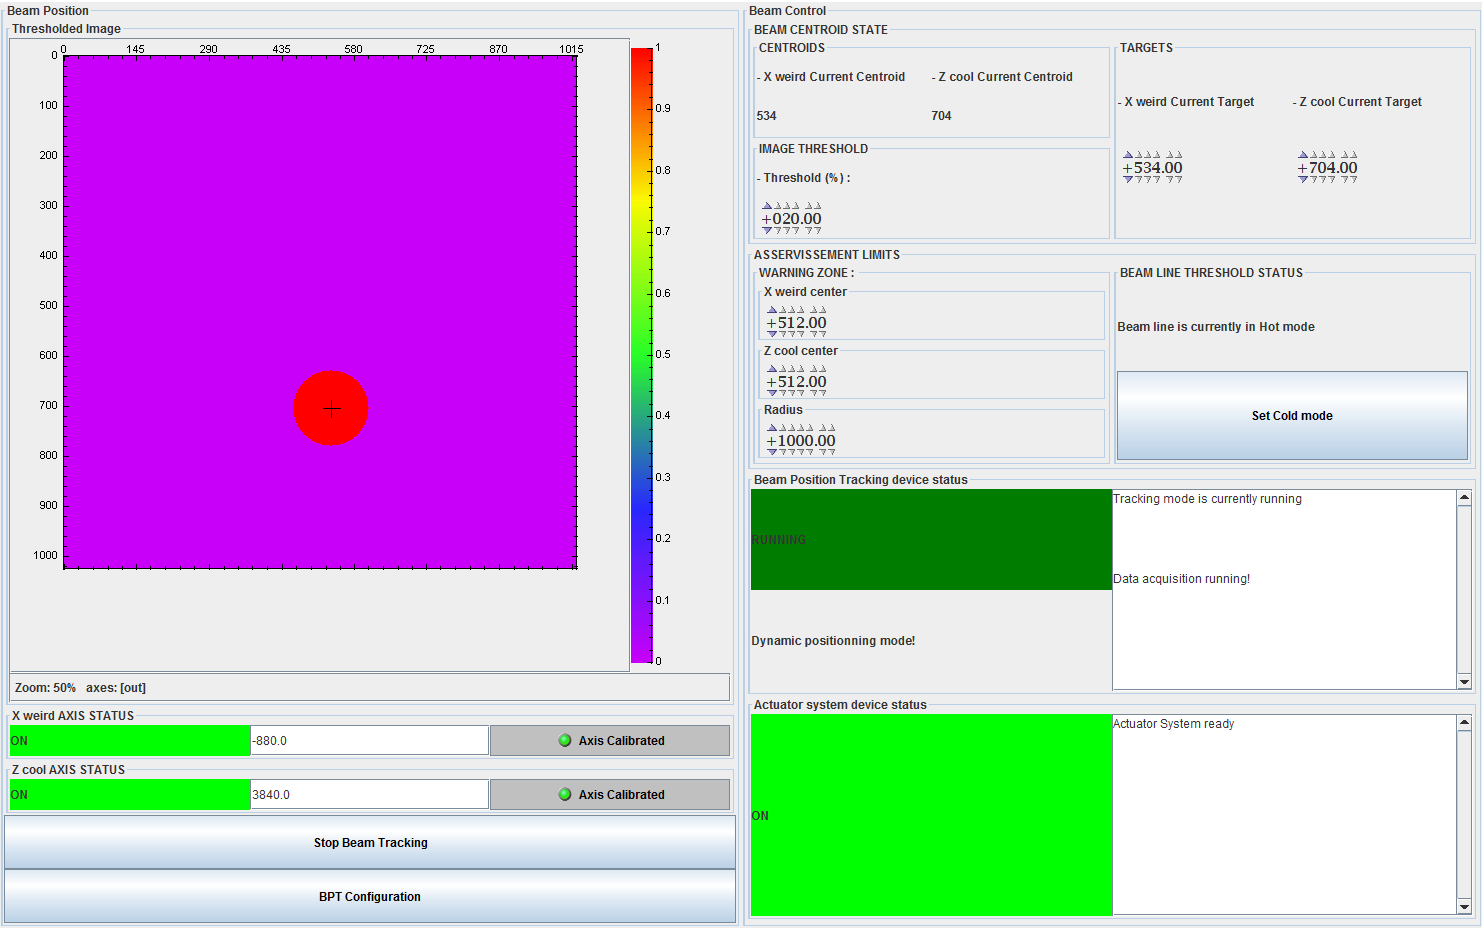
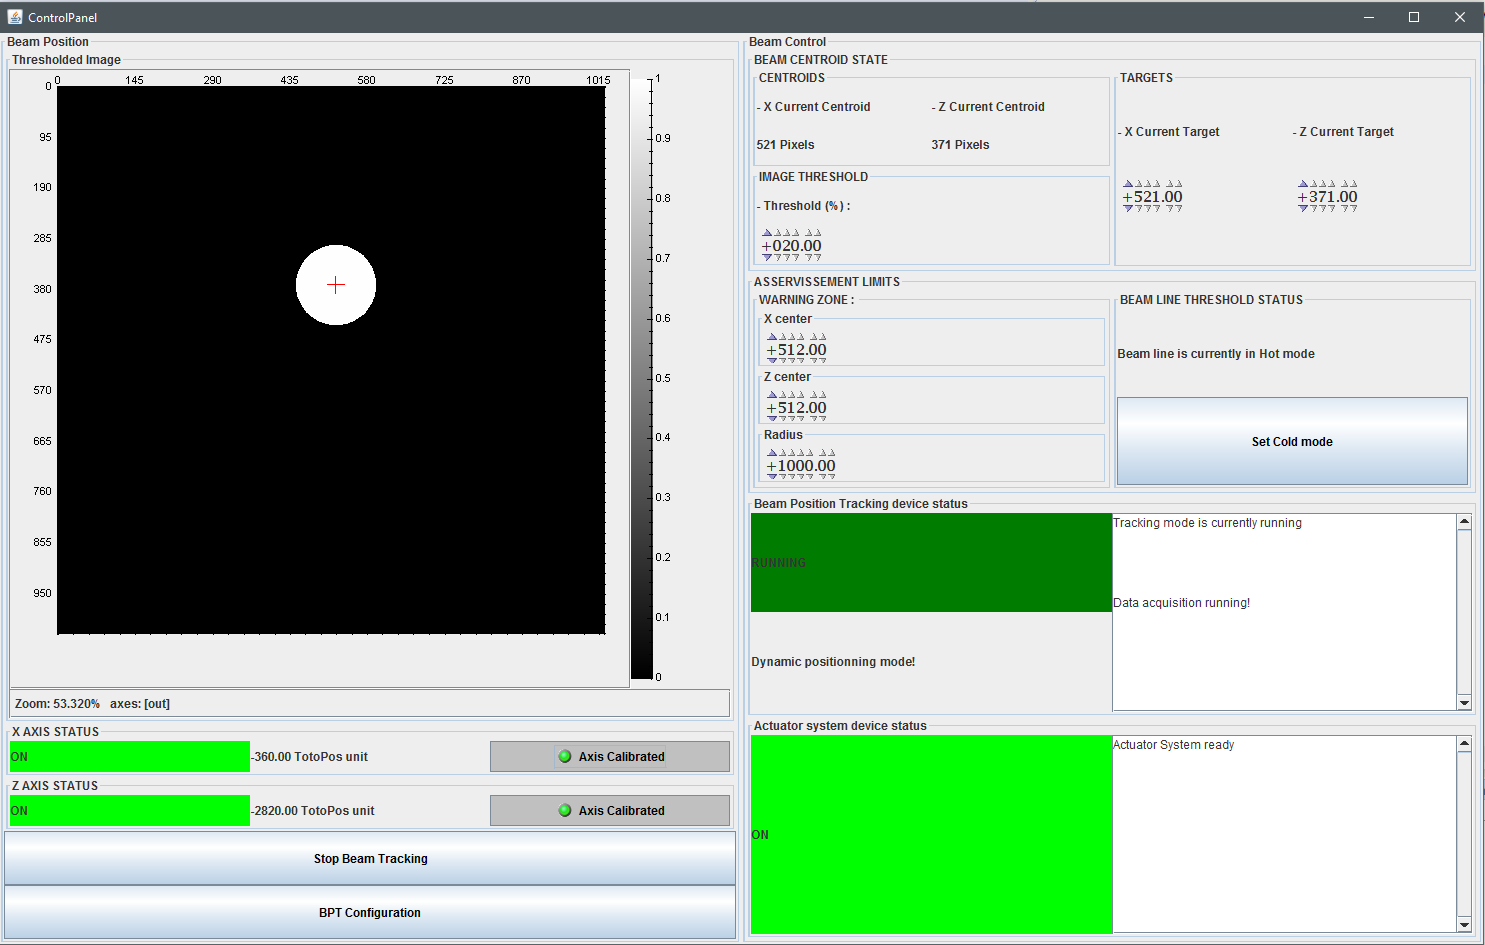
IHM ... work in progress

diff --git a/CometeApp/src/main/java/fr/soleil/comete/bptApp/view/ControlPanel.java b/CometeApp/src/main/java/fr/soleil/comete/bptApp/view/ControlPanel.java
@@ -1,8 +1,11 @@
-package main.java.fr.soleil.comete.bptApp.view;
+package fr.soleil.comete.bptApp.view;
 import java.awt.BorderLayout;
 import java.awt.Color;
 import java.awt.Dimension;
 import java.awt.GridLayout;
+import java.awt.event.ActionEvent;
+import java.awt.event.ActionListener;
+import java.util.concurrent.TimeUnit;
 
 import javax.swing.BorderFactory;
 import javax.swing.JFrame;
@@ -11,20 +14,13 @@ import javax.swing.JPanel;
 import javax.swing.WindowConstants;
 import javax.swing.border.Border;
 
-import main.java.fr.soleil.comete.bptApp.cometeWrapper.TangoConnection;
-
-import java.awt.event.ActionEvent;
-import java.awt.event.ActionListener;
-import java.util.concurrent.TimeUnit;
-
-import fr.soleil.comete.awt.Button;
-import fr.soleil.comete.definition.widget.util.CometeColor;
+import fr.soleil.comete.bptApp.cometeWrapper.TangoConnection;
+import fr.soleil.comete.definition.widget.util.Gradient;
 import fr.soleil.comete.swing.IconButton;
 import fr.soleil.comete.swing.ImageViewer;
 import fr.soleil.comete.swing.Label;
 import fr.soleil.comete.swing.StringButton;
 import fr.soleil.comete.swing.TextArea;
-import fr.soleil.comete.swing.TextField;
 import fr.soleil.comete.swing.WheelSwitch;
 
 /****************************************************************
@@ -80,10 +76,10 @@ public class ControlPanel implements Runnable  {
 	StringButton _stopBTButtonCMD;
 	StringButton _trackingButton;
 	Label _xAxisState;
-	TextField _xAxisPosition;
+	Label _xAxisPosition;
 	IconButton _isXAxisCalibrated;
 	Label _yAxisState;
-	TextField _yAxisPosition;
+	Label _yAxisPosition;
 	IconButton _isYAxisCalibrated;
 	
 	//COMPONENTS - RIGHT PANEL
@@ -206,8 +202,6 @@ public class ControlPanel implements Runnable  {
 	 *  To refresh interface 
 	 * **************************************************************/
 	private void refreshInterface(){
-		refreshImageSize();
-		refreshStatesColors();
 		refreshBPTState();
 		refreshApplicationCommands();
 		refreshThresholdMode();
@@ -246,32 +240,6 @@ public class ControlPanel implements Runnable  {
 			_switchBeamLineThresholdMode.setText("Set Cold mode");
 			_hotBeamLineMode = false;
 			_coldBeamLineMode = false;
-		}
-	}
-	/****************************************************************
-	 *  refreshImageSize ()
-	 *  
-	 *  Will refresh image size only if mainFrame dimensions has changed
-	 * **************************************************************/
-	public void refreshImageSize(){
-		int newXFrameDim = _mainFrame.getSize().width;
-		int newYFrameDim = _mainFrame.getSize().height;
-		
-		if(!_firstImageSizeFit){
-			//first refresh => need to wait for the viewer to be fully construct (1 second)
-			try {
-				TimeUnit.SECONDS.sleep(1);
-			} catch (InterruptedException e) {
-				//Noop
-			}
-		}
-
-		if (newXFrameDim!=_xOldFrameDim || newYFrameDim!=_yOldFrameDim){
-			_firstImageSizeFit = true;
-			_xOldFrameDim = newXFrameDim;
-			_yOldFrameDim = newYFrameDim;
-			//Update image size
-			_viewer.setAutoZoom(true);
 		}
 	}
 	/****************************************************************
@@ -318,7 +286,6 @@ public class ControlPanel implements Runnable  {
 		double []point = {_xTarget.getValue(), _yTarget.getValue()};
 		_viewer.setBeamPoint(point);
 		_viewer.getBeamPoint();
-		_viewer.setBeamColor(Color.black);
 		_viewer.setDrawBeamPosition(true);
 	}
 	/****************************************************************
@@ -380,29 +347,6 @@ public class ControlPanel implements Runnable  {
 		}
 	}
 	/****************************************************************
-	 *  refreshStatesColors ()
-	 *  
-	 *  
-	 * **************************************************************/
-	public void refreshStatesColors(){
-		String xState = _xAxisState.getText();
-		String yState = _yAxisState.getText();
-		
-		if (xState.equals("ON"))
-			_xAxisState.setCometeBackground(CometeColor.GREEN);
-		else if (xState.equals("MOVING"))
-			_xAxisState.setCometeBackground(CometeColor.CYAN);
-		else 
-			_xAxisState.setCometeBackground(CometeColor.ORANGE);
-		
-		if (yState.equals("ON"))
-			_yAxisState.setCometeBackground(CometeColor.GREEN);
-		else if (yState.equals("MOVING"))
-			_yAxisState.setCometeBackground(CometeColor.CYAN);
-		else 
-			_yAxisState.setCometeBackground(CometeColor.ORANGE);
-	}
-	/****************************************************************
 	 *  initComponents() 
 	 *  
 	 *  To init components
@@ -418,6 +362,12 @@ public class ControlPanel implements Runnable  {
                 selectionMenu.add(containerFactory.createMenuItem(getAction(MODE_ANGLE_ACTION)));
             }
         };
+        _viewer.setAlwaysFitMaxSize(true);
+        Gradient gradient = new Gradient();
+        gradient.buildMonochromeGradient();
+       
+        _viewer.setGradient(gradient);
+        _viewer.setBeamColor(Color.RED);
         //Control access
         _configPanelButton = new StringButton();
         _configPanelButton.setText("BPT Configuration");
@@ -468,8 +418,8 @@ public class ControlPanel implements Runnable  {
         _xAxisState = new Label();
 		_yAxisState = new Label();
 		//Axes positions 
-		_xAxisPosition = new TextField();
-		_yAxisPosition = new TextField();
+		_xAxisPosition = new Label();
+		_yAxisPosition = new Label();
 		//Axes calibration state
 		_isXAxisCalibrated = new IconButton();
 		_isYAxisCalibrated = new IconButton();
@@ -521,8 +471,8 @@ public class ControlPanel implements Runnable  {
         _tangoConnection.connectCommand(_tangoConnection.stringType, bptDeviceAdress, START_BEAM_TRACKING_CMD, _startBTButtonCMD, false);
         _tangoConnection.connectCommand(_tangoConnection.stringType, bptDeviceAdress, STOP_BEAM_TRACKING_CMD, _stopBTButtonCMD, false);
         //Connect axes states Labels
-        _tangoConnection.connectAttribute(_tangoConnection.stringType,asDeviceAdress ,"xState",_xAxisState, false);
-        _tangoConnection.connectAttribute(_tangoConnection.stringType,asDeviceAdress ,"yState",_yAxisState, false);
+        _tangoConnection.connectAttribute(_tangoConnection.stringType,asDeviceAdress ,"xState",_xAxisState, true);
+        _tangoConnection.connectAttribute(_tangoConnection.stringType,asDeviceAdress ,"yState",_yAxisState, true);
         //Connect axes positions Labels
         _tangoConnection.connectAttribute(_tangoConnection.stringType, asDeviceAdress, X_POSITION_ATTR, _xAxisPosition, false);
         _tangoConnection.connectAttribute(_tangoConnection.stringType, asDeviceAdress, Y_POSITION_ATTR, _yAxisPosition, false);

diff --git a/CometeApp/src/main/java/fr/soleil/comete/bptApp/view/ConfigPanel.java b/CometeApp/src/main/java/fr/soleil/comete/bptApp/view/ConfigPanel.java
@@ -1,23 +1,26 @@
-package main.java.fr.soleil.comete.bptApp.view;
-
-
+package fr.soleil.comete.bptApp.view;
 import java.awt.Dimension;
 import java.awt.GridLayout;
 import java.awt.event.ActionEvent;
 import java.awt.event.ActionListener;
 import java.util.Scanner;
+import java.util.prefs.BackingStoreException;
+import java.util.prefs.Preferences;
 
 import javax.swing.BorderFactory;
 import javax.swing.JFrame;
 import javax.swing.JPanel;
 import javax.swing.JTextField;
+import javax.swing.SwingWorker;
 import javax.swing.WindowConstants;
 import javax.swing.border.Border;
 import javax.swing.border.TitledBorder;
 
-import main.java.fr.soleil.comete.bptApp.cometeWrapper.TangoConnection;
+import fr.soleil.comete.bptApp.cometeWrapper.TangoConnection;
 import fr.soleil.comete.swing.Label;
 import fr.soleil.comete.swing.StringButton;
+import fr.soleil.lib.project.awt.WindowUtils;
+import fr.soleil.lib.project.swing.dialog.ProgressDialog;
 
 public class ConfigPanel implements Runnable  {
 	private static final String BPT_DEVICE_CLASS = "BeamPositionTracking";
@@ -42,6 +45,7 @@ public class ConfigPanel implements Runnable  {
 	ConfigPanel _configPanel;
 	static ControlPanel _controlPanel;
 	StringButton _controlRedirection;
+	private ProgressDialog progressDialog;
 	
 
     Label _targetDeviceClassLabel = new Label();
@@ -115,6 +119,7 @@ public class ConfigPanel implements Runnable  {
 		initComponents();
 		initGui();
 		run();
+		
 	}
 	/****************************************************************
 	 *  refreshInterface() 
@@ -175,9 +180,7 @@ public class ConfigPanel implements Runnable  {
 			public void actionPerformed(ActionEvent arg0) {
 				//Object control panel not created yet
 				if (_controlPanel == null && !_asAdressLabel.getText().isEmpty()){	
-					
-
-					//TODO GET new LABELS SOMEWHERE !!!!					
+							
 					_controlPanel = new ControlPanel(_bptDeviceAdressTextField.getText(),
 							 						  _asAdressLabel.getText(),
 							 						  _configPanel, 
@@ -203,7 +206,8 @@ public class ConfigPanel implements Runnable  {
 		});
 		
 		//Devices Address
-		_bptDeviceAdressTextField = new JTextField("Simulation/BeamPositionTracking/beampositiontracking", 20);
+		_bptDeviceAdressTextField = new JTextField(getUserPreference("bptFavoriteDevice"), 20);
+
 		//States
 		_bptState = new Label();
 		_asState = new Label();		
@@ -251,13 +255,23 @@ public class ConfigPanel implements Runnable  {
 		_hotYThreshold = new Label();
 		
 	}
-	
 	/****************************************************************
 	 *  connectBpt() 
 	 *  
 	 *  
 	 * **************************************************************/
 	public void connectBpt(){
+		if (progressDialog==null) {
+			progressDialog = new ProgressDialog(WindowUtils.getWindowForComponent(_connectBPT));
+			progressDialog.setProgressIndeterminate(true);
+		}
+		if(!progressDialog.isVisible()) {
+			progressDialog.setTitle("Connecting...");
+			progressDialog.setMainMessage("Connecting BPT...");
+			progressDialog.pack();
+			progressDialog.setLocationRelativeTo(_connectBPT);
+			progressDialog.setVisible(true);
+		}
 		
 		//check if bpt address has changed => to update control panel 
 		if (!_bptDeviceAdressTextField.getText().equals(_bptDeviceAdress))
@@ -267,16 +281,30 @@ public class ConfigPanel implements Runnable  {
 		_asReady = false;
 		_bptConnectionStatus.setText("No BeamPositionTracking device connected yet !");
 		_bptDeviceAdress = _bptDeviceAdressTextField.getText();
-        
-        if(_tangoConnection.connectLabelDeviceClass(_bptDeviceAdress, _targetDeviceClassLabel)){
-        	_bptDeviceReadyToConnect = true;
-        }
-    	else{
-    		_bptConnectionStatus.setText("Counldn't connect to distant device"
-					+ "\nPlease check device adress !");	
-    		_bptDeviceReadyToConnect = false;		
-    	}
-        		
+		_connectBPT.setEnabled(false);
+        SwingWorker<Void, Void> worker = new SwingWorker<Void, Void>() {
+			
+			@Override
+			protected Void doInBackground() throws Exception {
+				if(_tangoConnection.connectLabelDeviceClass(_bptDeviceAdress, _targetDeviceClassLabel)){
+		        	_bptDeviceReadyToConnect = true;
+		        } else {
+		        	_bptDeviceReadyToConnect = false;
+		        }
+				return null;
+			}
+			@Override
+			protected void done() {
+				_connectBPT.setEnabled(true);
+				if(!_bptDeviceReadyToConnect) {
+		    		_bptConnectionStatus.setText("Counldn't connect to distant device"
+							+ "\nPlease check device adress !");	
+				}
+		        progressDialog.setVisible(false);
+			}
+		};
+		setUserPreference ("bptFavoriteDevice", _bptDeviceAdressTextField.getText());
+		worker.execute();
 	}
 	/****************************************************************
 	 *  initializeBPTConnection() 
@@ -594,6 +622,29 @@ public class ConfigPanel implements Runnable  {
 				refreshInterface();
 			} catch (InterruptedException e) {
 			}
+		}
+	}
+	/****************************************************************
+	 *  getUserPreference(String prefName) 
+	 *  
+	 *  
+	 * **************************************************************/
+	private String getUserPreference(String prefName) {
+		Preferences prefs = Preferences.userRoot().node(this.getClass().getName());
+		return prefs.get(prefName, "Enter/Here/BeamPositionDeviceAdress");
+	}
+	/****************************************************************
+	 *  setUserPreference(String prefName, String value)
+	 *  
+	 *  
+	 * **************************************************************/
+	private void setUserPreference(String prefName, String value) {
+		Preferences prefs = Preferences.userRoot().node(this.getClass().getName());
+		prefs.put(prefName, value);
+		try {
+			prefs.flush();
+		} catch (BackingStoreException e) {
+			e.printStackTrace();
 		}
 	}
 }

diff --git a/CometeApp/src/main/java/fr/soleil/comete/bptApp/cometeWrapper/TangoConnection.java b/CometeApp/src/main/java/fr/soleil/comete/bptApp/cometeWrapper/TangoConnection.java
@@ -1,4 +1,4 @@
-package main.java.fr.soleil.comete.bptApp.cometeWrapper;
+package fr.soleil.comete.bptApp.cometeWrapper;
 
 import fr.soleil.comete.box.matrixbox.NumberMatrixBox;
 import fr.soleil.comete.box.scalarbox.BooleanScalarBox;
@@ -44,10 +44,14 @@ public class TangoConnection {
 		else
 			TangoKeyTool.registerAttribute(tangoKey, deviceAdress, attributeName);
 
-		if (metaData)
-			box.connectWidget(component, tangoKey);
-		else 
-			box.connectWidgetNoMetaData(component, tangoKey);
+//		if (metaData)
+//			box.connectWidget(component, tangoKey);
+//		else 
+//			box.connectWidgetNoMetaData(component, tangoKey);
+		if(!metaData) {
+			box.setColorEnabled(component, false);
+		}
+		box.connectWidget(component, tangoKey);
 	}
 	/****************************************************************
 	 *  connectAttribute 

diff --git a/CometeApp/src/main/java/fr/soleil/comete/bptApp/BeamPositionTracking.java b/CometeApp/src/main/java/fr/soleil/comete/bptApp/BeamPositionTracking.java
@@ -1,8 +1,8 @@
-package main.java.fr.soleil.comete.bptApp;
+package fr.soleil.comete.bptApp;
 
+import fr.soleil.comete.bptApp.view.ConfigPanel;
+import fr.soleil.comete.bptApp.view.ControlPanel;
 import fr.soleil.comete.swing.Panel;
-import main.java.fr.soleil.comete.bptApp.view.ConfigPanel;
-import main.java.fr.soleil.comete.bptApp.view.ControlPanel;
 
 public class BeamPositionTracking {
 
